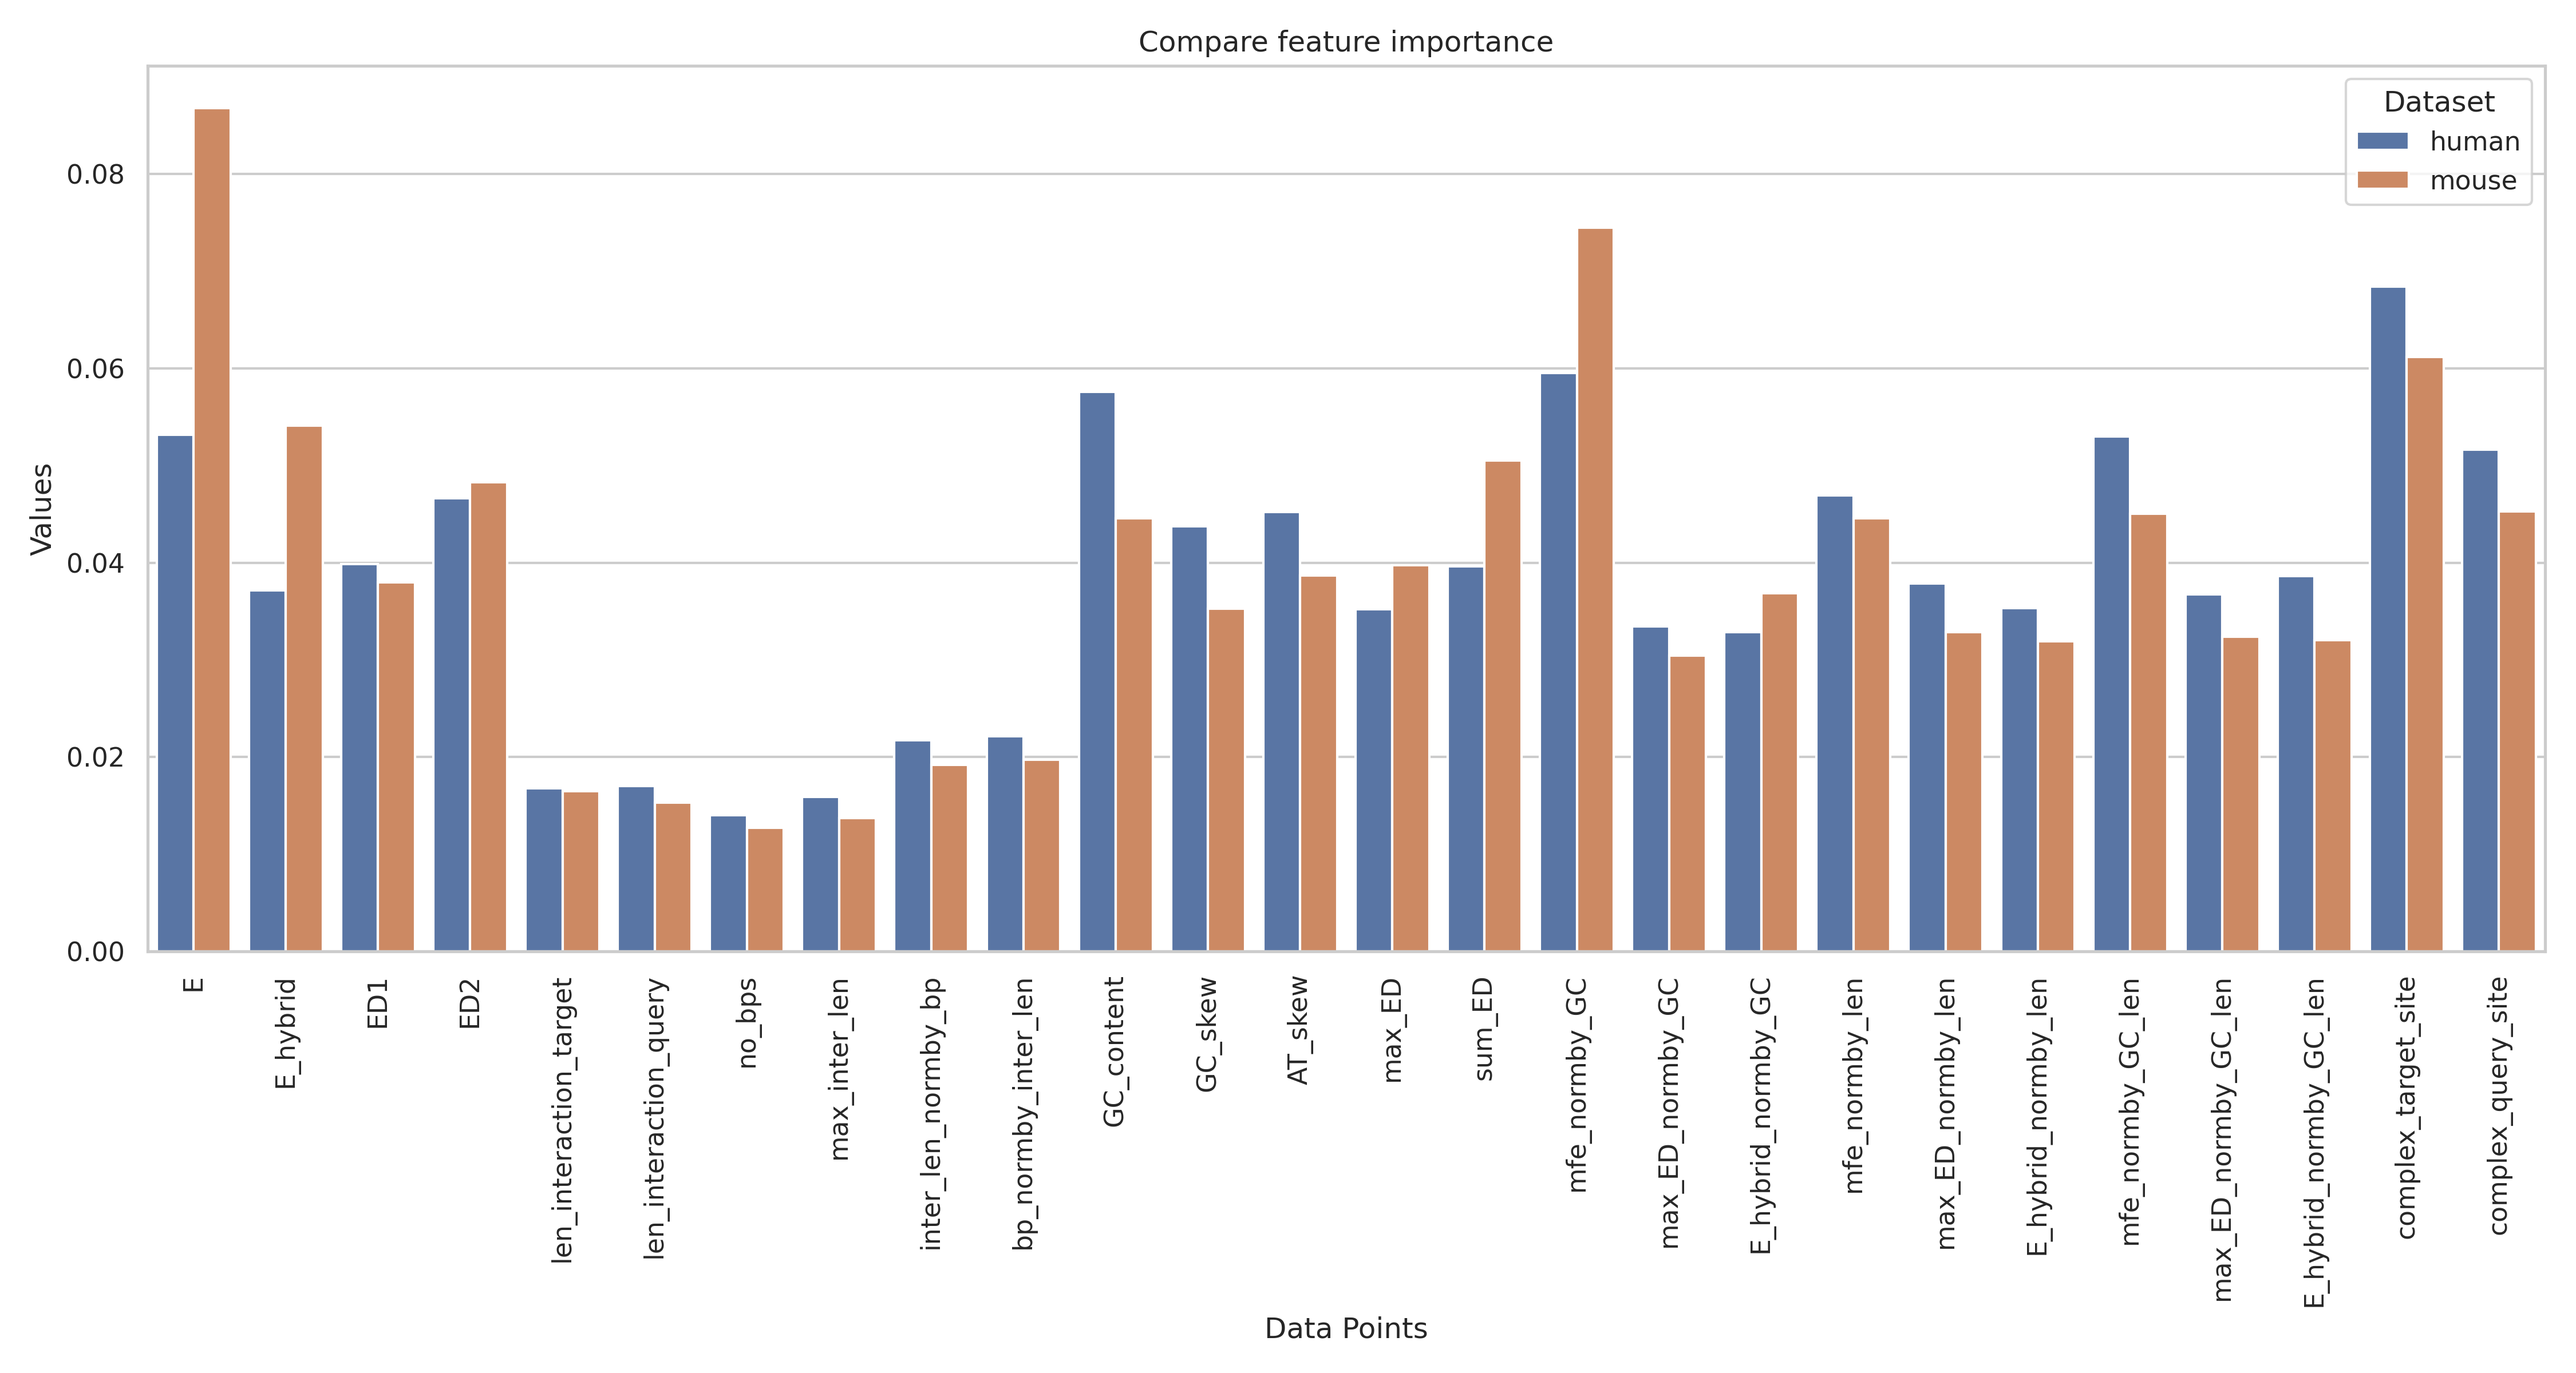
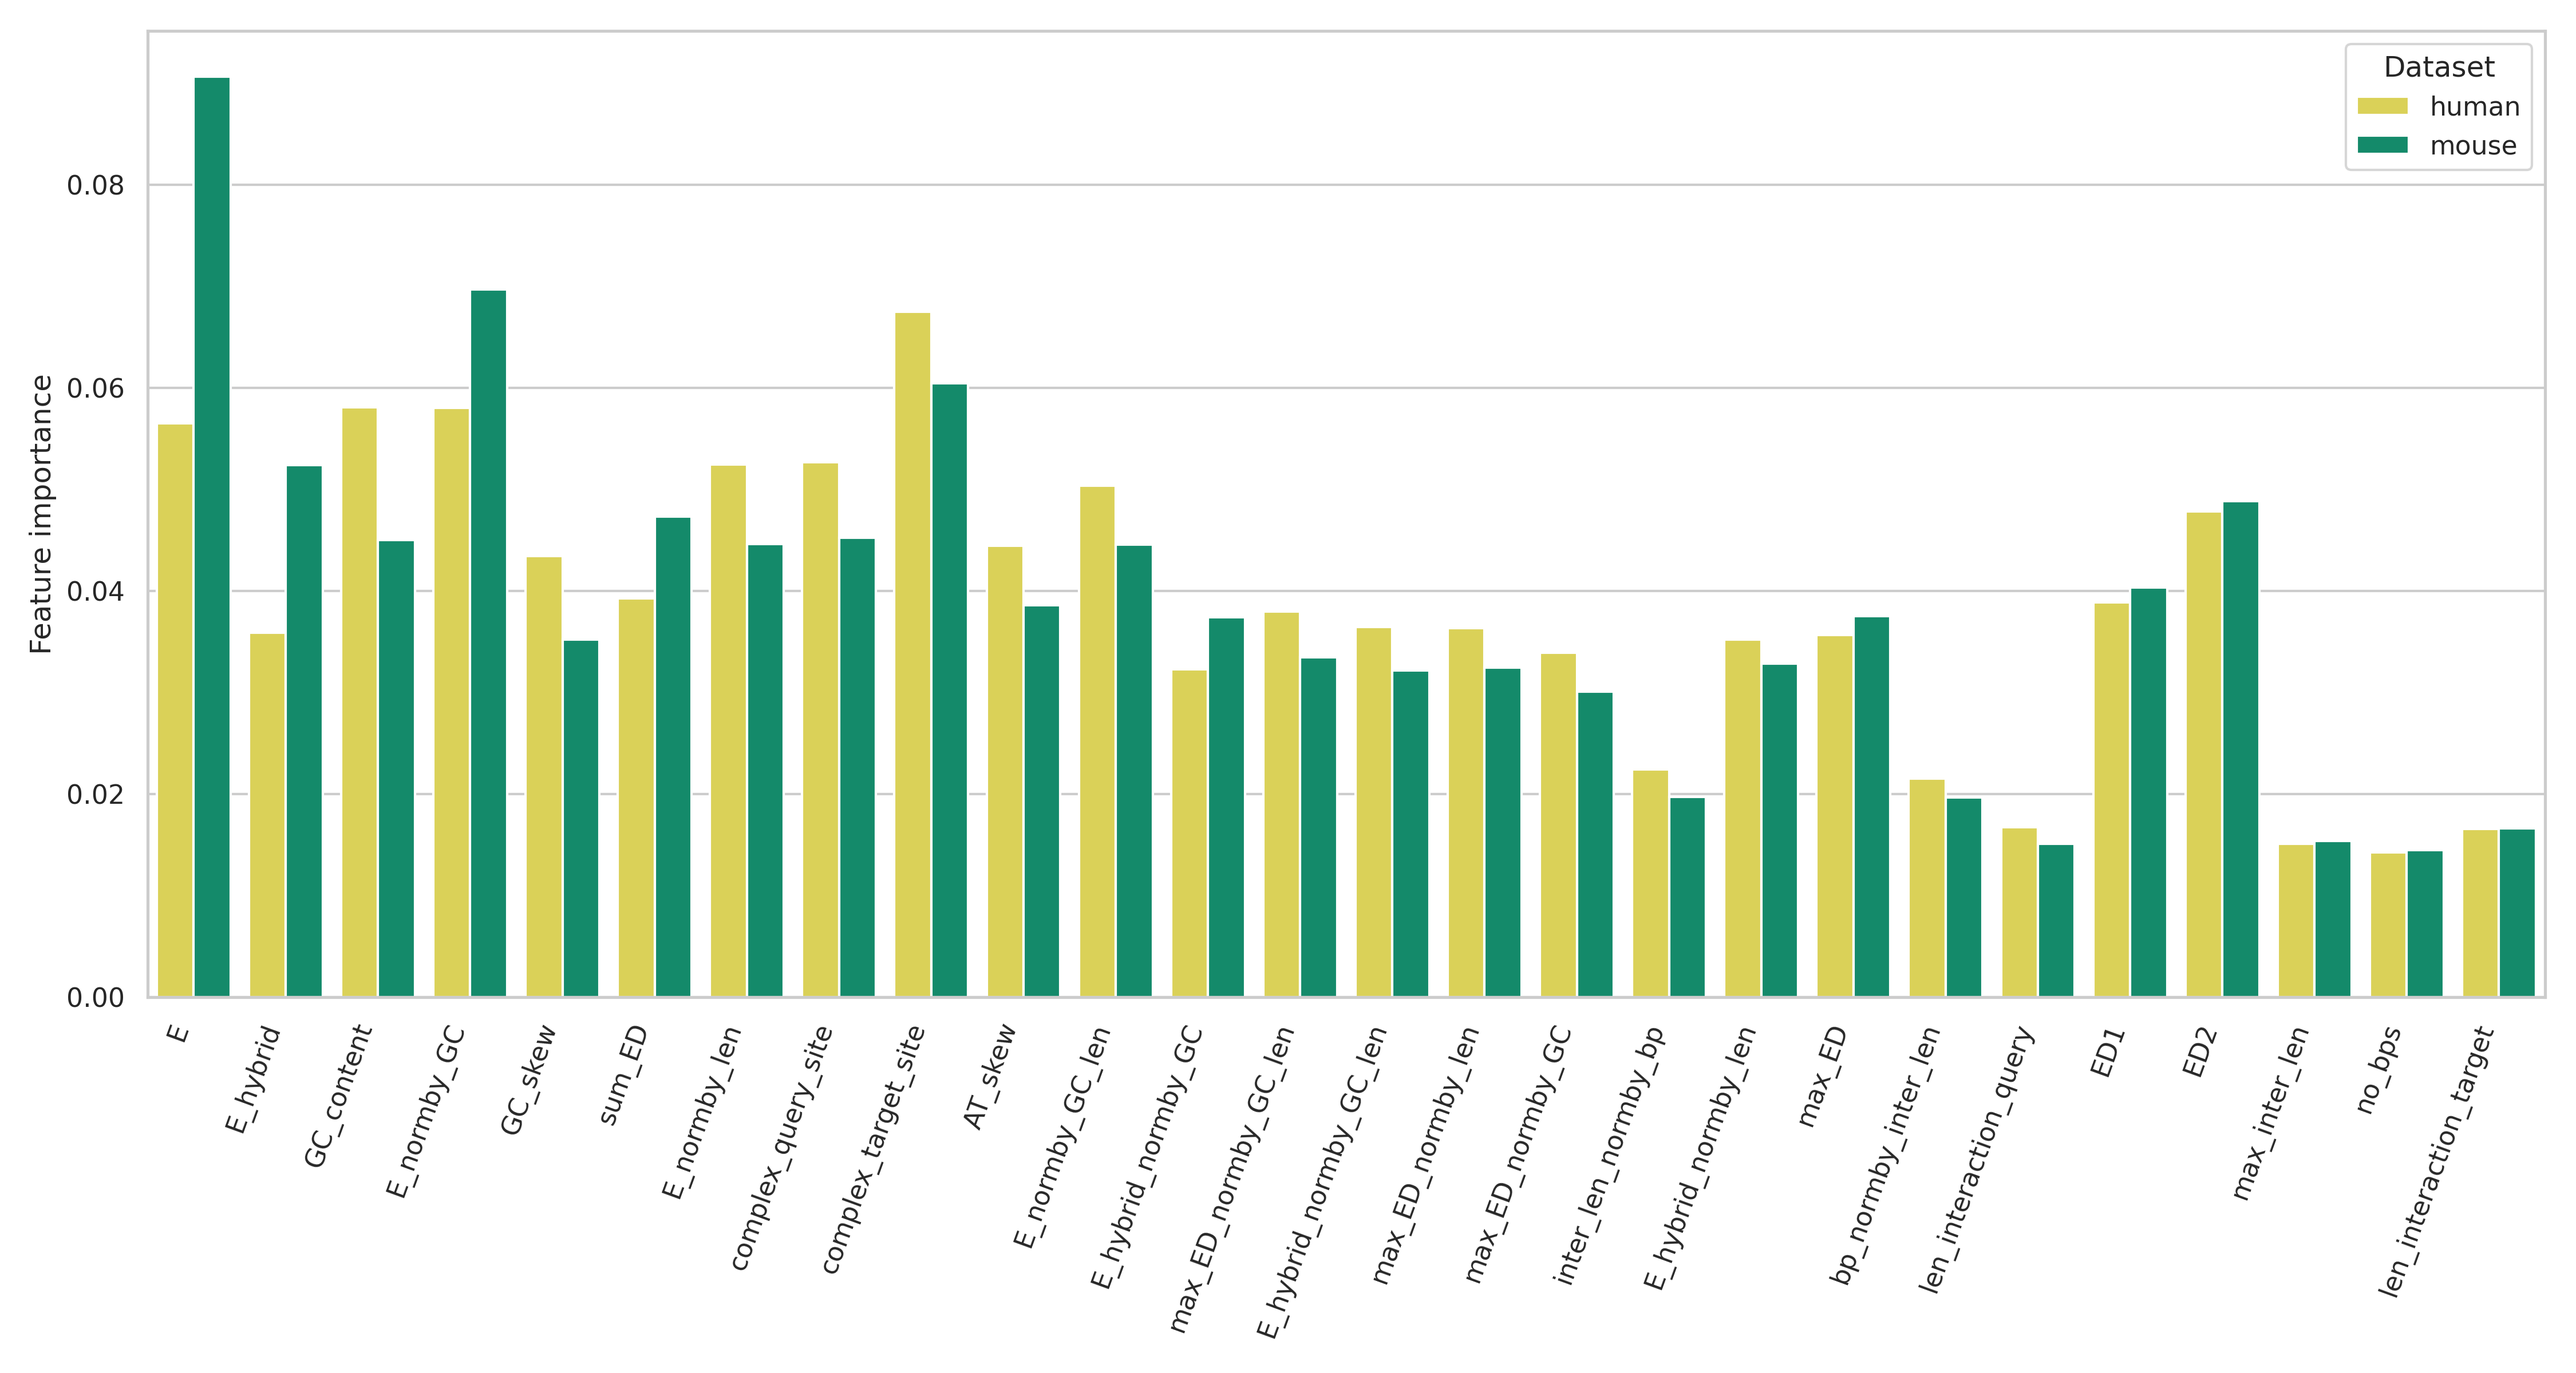
updated feature imprtance plot

diff --git a/scripts/feature_impotrance.py b/scripts/feature_impotrance.py
@@ -11,7 +11,7 @@ import seaborn as sns
 def get_feature_importances(file_zip):
     file = ut.nloadfile(file_zip)
     X,y, ftname, _ = file
-    m = RF().fit(X,y)
+    m = RF(random_state=30).fit(X,y)
     feature_importance = m.feature_importances_
     return feature_importance, ftname
 
@@ -23,16 +23,16 @@ def main():
     parser = argparse.ArgumentParser(description='')
     parser.add_argument("-ih", "--human_input_file",
                         help= "",
-                        default="/vol/scratch/data_storage/Cherri_Zenodo/Cherri_models_v4/Model_without_graph_features/human/training_data_human_context_150.npz")
+                        default="/vol/scratch/data_storage/Cherri_Zenodo/Cherri_models_v4/Model_without_graph_features/human_without_graph_features/training_data_human_context_150.npz")
     parser.add_argument("-ir", "--human_rbp_input_file",
                         help= "",
-                        default="/vol/scratch/data_storage/Cherri_Zenodo/Cherri_models_v4/Model_without_graph_features/human_rbp/training_data_human_rbp_context_150.npz")
+                        default="/vol/scratch/data_storage/Cherri_Zenodo/Cherri_models_v4/Model_without_graph_features/human_rbp__without_graph_features//training_data_human_rbp_context_150.npz")
     parser.add_argument("-in", "--mouse_input_file",
                         help= "",
-                        default="/vol/scratch/data_storage/Cherri_Zenodo/Cherri_models_v4/Model_without_graph_features/mouse/training_data_mouse_context_150.npz")
+                        default="/vol/scratch/data_storage/Cherri_Zenodo/Cherri_models_v4/Model_without_graph_features/mouse__without_graph_features/training_data_mouse_context_150.npz")
     parser.add_argument("-if", "--full_input_file",
                         help= "",
-                        default="/vol/scratch/data_storage/Cherri_Zenodo/Cherri_models_v4/Model_without_graph_features/Full/training_data_Full_context_150.npz")
+                        default="/vol/scratch/data_storage/Cherri_Zenodo/Cherri_models_v4/Model_without_graph_features/Full_without_graph_features/training_data_Full_context_150.npz")
 
     args = parser.parse_args()
     # get input files
@@ -65,8 +65,12 @@ def main():
 
     # Melting the DataFrame for easier plotting with seaborn
     df_importance = df_importance_temp.melt(id_vars='Features', var_name='Dataset', value_name='Value')
-    print(df_importance_temp)
-    print(df_importance)
+    #print(df_importance_temp)
+    #print(df_importance)
+
+    df_importance['Features'] = df_importance['Features'].replace({'mfe_normby_GC_len': 'E_normby_GC_len'})
+    df_importance['Features'] = df_importance['Features'].replace({'mfe_normby_len': 'E_normby_len'})
+    df_importance['Features'] = df_importance['Features'].replace({'mfe_normby_GC': 'E_normby_GC'})
 
     # Pivot the DataFrame to have features as indexes, datasets as columns, and values as cell values
     df_pivot = df_importance.pivot(index='Features', columns='Dataset', values='Value')
@@ -79,20 +83,22 @@ def main():
 
     # Reset index to make Feature_name a column again and prepare for plotting
     df_sorted_for_plot = df_pivot_sorted.reset_index().melt(id_vars='Features', value_vars=['human', 'mouse'])
+    print(df_sorted_for_plot)
 
 # Plot
     # Plotting
     plt.figure(figsize=(15, 8))
     sns.set_context("notebook")
     sns.set_theme(style="whitegrid")
-    sns.barplot(data=df_sorted_for_plot, x='Features', y='Value', hue='Dataset')
-    plt.xticks(rotation=90)
-    plt.title('Compare feature importance')
-    plt.xlabel('Data Points')
-    plt.ylabel('Values')
+    sns.barplot(data=df_sorted_for_plot, x='Features', y='value', hue='Dataset', palette=['#F0E442','#009E73'])
+    plt.xticks(rotation=70, ha='right')
+    #plt.title('Compare feature importance')
+    plt.xlabel('')
+    plt.ylabel('Feature importance')
     plt.tight_layout()
     plt.show()
     plt.savefig(out_path + 'feature_importance_barplot_mouse_human.png', dpi=300) # Saving as PNG with high resolution
+    plt.savefig(out_path + 'feature_importance_barplot_mouse_human.pdf', format="pdf")
 
 
 
@@ -126,10 +132,29 @@ def main():
     # Melting the DataFrame for easier plotting with seaborn
     df_importance_full = df_importance_temp_all.melt(id_vars='Features', var_name='Dataset', value_name='Value')
 
+    # Pivot the DataFrame to have features as indexes, datasets as columns, and values as cell values
+    df_pivot_full = df_importance_full.pivot(index='Features', columns='Dataset', values='Value')
+    print(df_pivot_full)
+    # Calculate the difference in values between dataA and dataB
+    df_pivot_full['difference'] = ((((df_pivot_full['human'] - df_pivot_full['mouse']).abs())
+                               +((df_pivot_full['human'] - df_pivot_full['human_rbp']).abs())
+                               +((df_pivot_full['human_rbp'] - df_pivot_full['mouse']).abs())
+                               +((df_pivot_full['human'] - df_pivot_full['Full']).abs())
+                               +((df_pivot_full['Full'] - df_pivot_full['mouse']).abs())
+                               +((df_pivot_full['human_rbp'] - df_pivot_full['Full']).abs()))/6)
+
+    # Sort the DataFrame based on the difference
+    df_pivot_sorted_full = df_pivot_full.sort_values(by='difference', ascending=False)
+
+    # Reset index to make Feature_name a column again and prepare for plotting
+    df_sorted_for_plot_full = df_pivot_sorted_full.reset_index().melt(id_vars='Features', value_vars=['human', 'mouse', 'human_rbp', 'Full'])
+    print(df_sorted_for_plot_full)
+
     # Plotting
     plt.figure(figsize=(15, 8))
     sns.set_context("notebook")
-    sns.barplot(x='Features', y='Value', hue='Dataset', data=df_importance_full)
+    sns.set_theme(style="whitegrid")
+    sns.barplot(data=df_sorted_for_plot_full, x='Features', y='value', hue='Dataset')
     plt.xticks(rotation=90)
     plt.title('Compare feature importance')
     plt.xlabel('Data Points')
